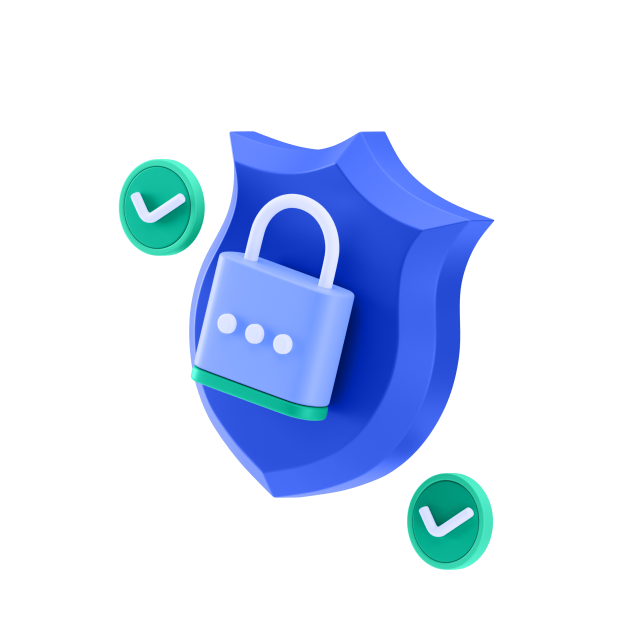
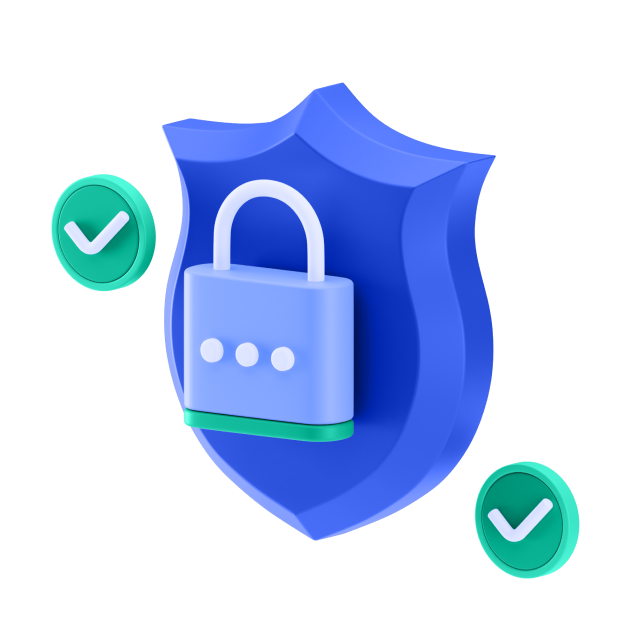
add straight secure shield asset

Changed region(s): [[0.0597, 0.1195, 0.9261, 0.9261]]

diff --git a/src/components/primary/SideNavigation/index.tsx b/src/components/primary/SideNavigation/index.tsx
@@ -105,7 +105,7 @@ export const SideNavigationContent = ({
 
                 <Image
                   src={shield}
-                  className={'absolute -right-24 -bottom-28'}
+                  className={'absolute -right-24 -bottom-28 rotate-[20deg]'}
                   alt={'shield'}
                 />
               </Link>
